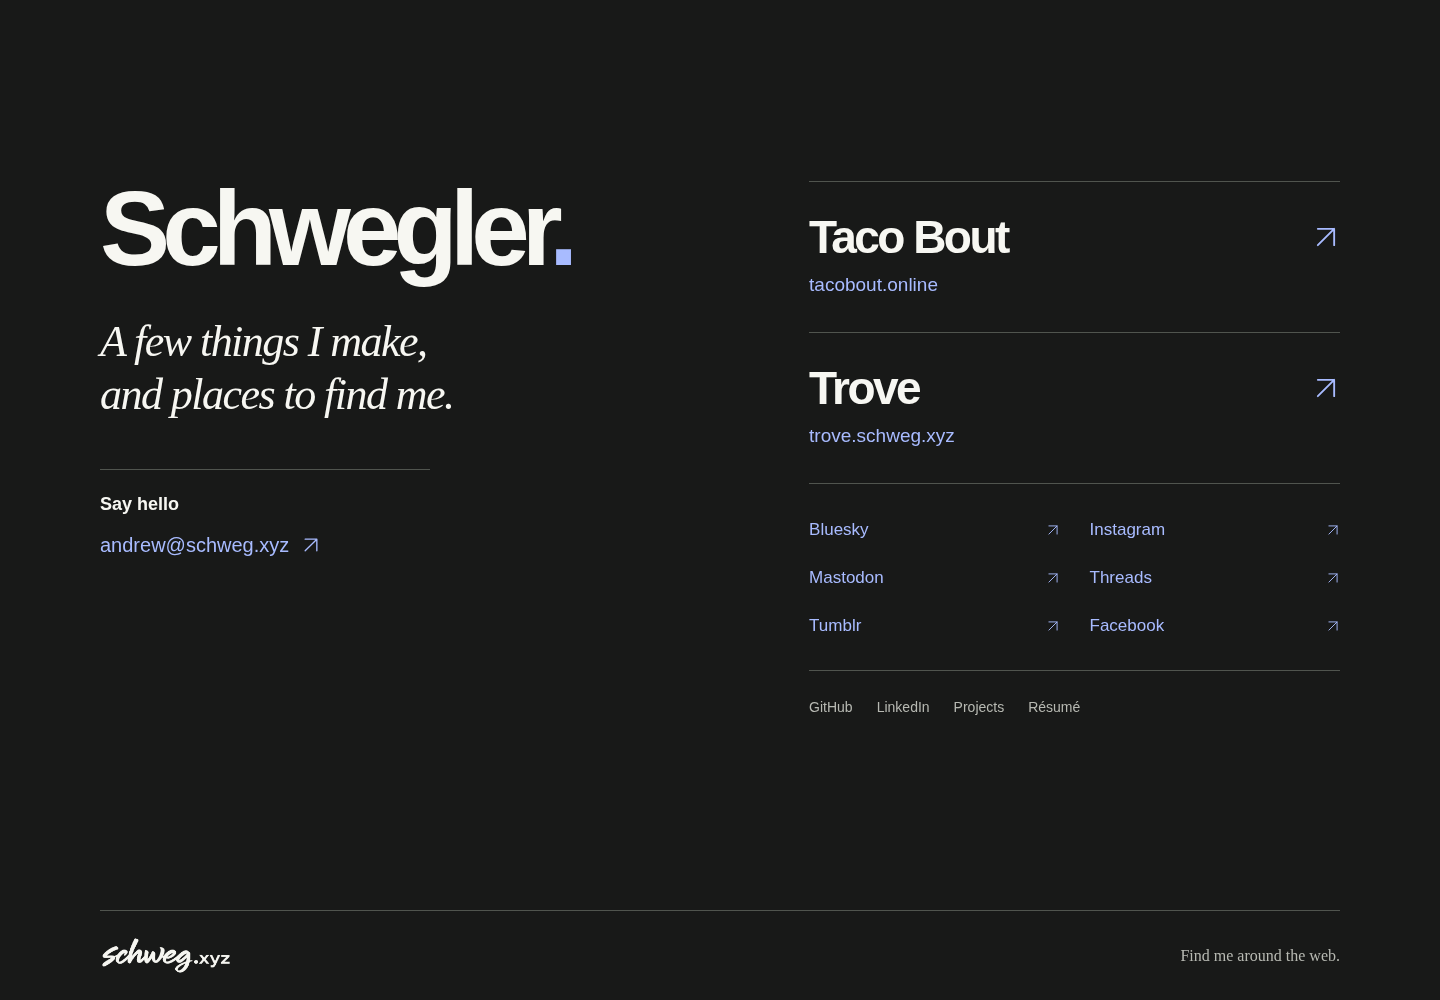
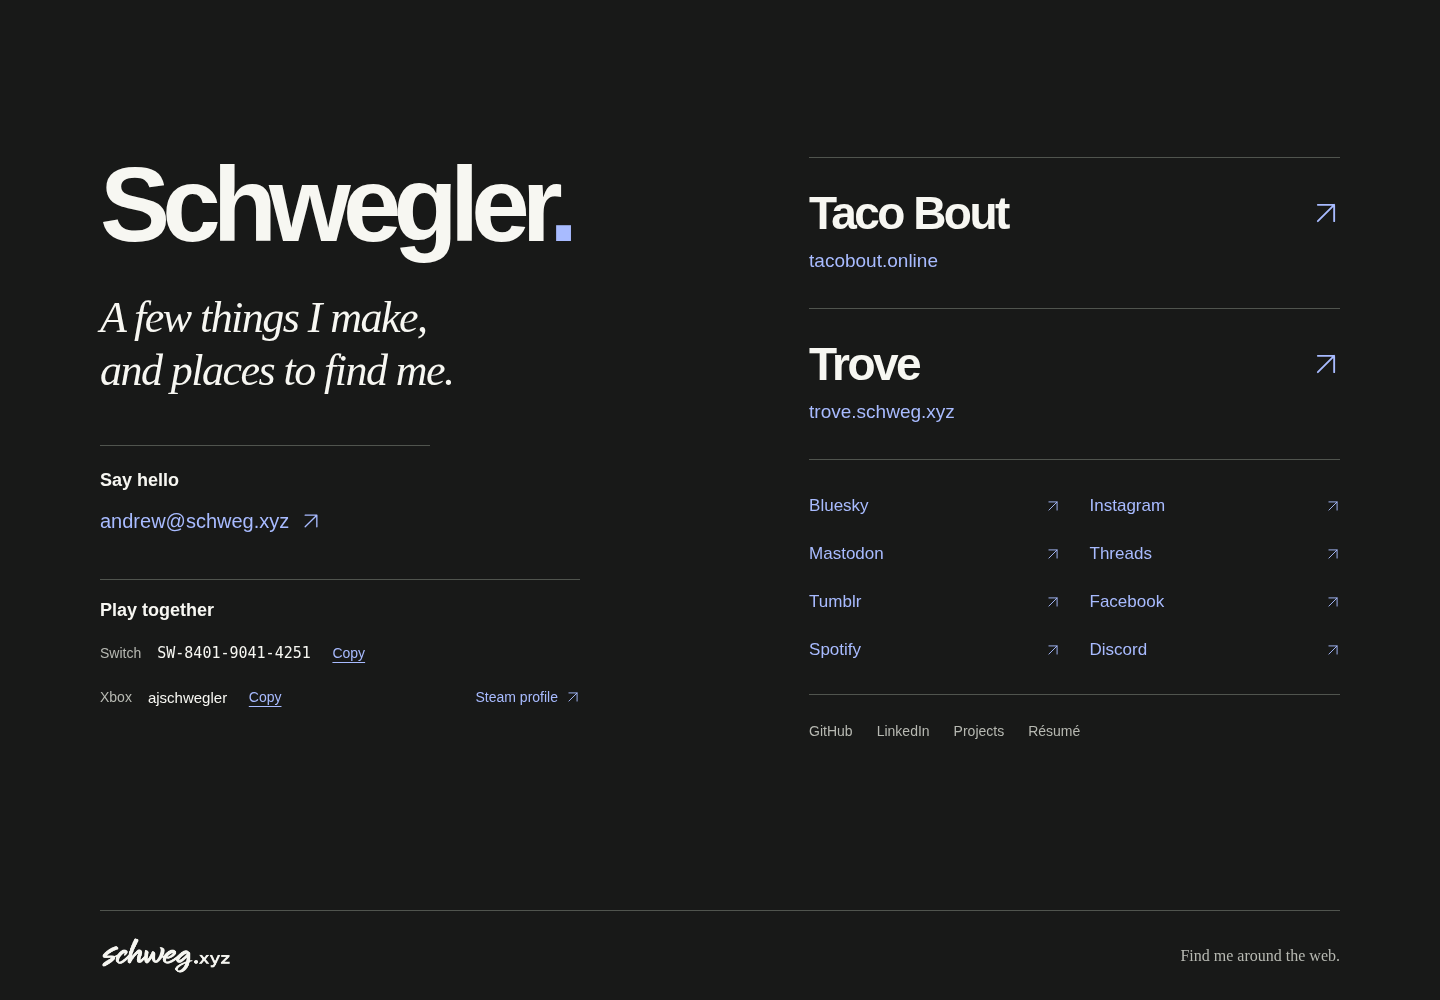
Add gaming contacts, Spotify and Discord to personal profile

diff --git a/me.html b/me.html
@@ -31,6 +31,7 @@
     <meta name="theme-color" content="#f7f7f2" />
     <link rel="icon" href="assets/favicon.svg" type="image/svg+xml" />
     <link rel="stylesheet" href="assets/me.css" />
+    <script src="assets/me.js" defer></script>
   </head>
   <body>
     <a class="skip" href="#main">Skip to content</a>
@@ -49,6 +50,44 @@
               <path d="M5 19 19 5M5 5h14v14" /></svg
           ></a>
         </div>
+        <section class="gaming" aria-labelledby="gaming-title">
+          <h2 id="gaming-title">Play together</h2>
+          <div class="gaming-row switch-row">
+            <span class="gaming-platform">Switch</span>
+            <span class="friend-code" id="switch-code">SW-8401-9041-4251</span>
+            <button
+              type="button"
+              class="copy-code"
+              data-copy-code="switch-code"
+              data-copy-label="Switch code"
+              aria-label="Copy Switch friend code"
+              hidden
+            >
+              Copy
+            </button>
+          </div>
+          <div class="gaming-row">
+            <span class="gaming-platform">Xbox</span>
+            <span class="player-tag" id="xbox-tag">ajschwegler</span>
+            <button
+              type="button"
+              class="copy-code"
+              data-copy-code="xbox-tag"
+              data-copy-label="Xbox gamertag"
+              aria-label="Copy Xbox gamertag"
+              hidden
+            >
+              Copy
+            </button>
+            <a
+              class="steam-link"
+              href="https://steamcommunity.com/profiles/76561198012788300"
+              >Steam profile<svg viewBox="0 0 24 24" aria-hidden="true">
+                <path d="M5 19 19 5M5 5h14v14" /></svg
+            ></a>
+          </div>
+          <p class="copy-status" role="status" aria-live="polite"></p>
+        </section>
       </section>
       <div class="links">
         <nav class="features" aria-label="Featured links">
@@ -84,6 +123,14 @@
               <path d="M5 19 19 5M5 5h14v14" /></svg></a
           ><a href="https://www.facebook.com/schwglr" rel="me"
             >Facebook<svg viewBox="0 0 24 24" aria-hidden="true">
+              <path d="M5 19 19 5M5 5h14v14" /></svg
+          ></a>
+          <a href="https://open.spotify.com/user/schwegler" rel="me"
+            >Spotify<svg viewBox="0 0 24 24" aria-hidden="true">
+              <path d="M5 19 19 5M5 5h14v14" /></svg
+          ></a>
+          <a href="https://discord.com/users/611902242840117249" rel="me"
+            >Discord<svg viewBox="0 0 24 24" aria-hidden="true">
               <path d="M5 19 19 5M5 5h14v14" /></svg
           ></a>
         </nav>

diff --git a/assets/me.css b/assets/me.css
@@ -330,3 +330,162 @@ footer {
     }
   }
 }
+.gaming {
+  margin-top: 36px;
+  max-width: 480px;
+  border-top: 1px solid var(--line);
+  padding-top: 20px;
+}
+.gaming h2 {
+  margin-bottom: 10px;
+}
+.gaming-row {
+  display: flex;
+  align-items: center;
+  flex-wrap: wrap;
+  gap: 4px 16px;
+  min-height: 44px;
+}
+.gaming-platform {
+  font-size: 14px;
+  color: var(--muted);
+}
+.friend-code {
+  font-family: ui-monospace, SFMono-Regular, Consolas, monospace;
+  font-size: 15px;
+  user-select: all;
+}
+.copy-code {
+  appearance: none;
+  border: 0;
+  border-bottom: 1px solid currentColor;
+  background: none;
+  color: var(--blue);
+  min-height: 44px;
+  padding: 0 4px;
+  font:
+    14px Arial,
+    Helvetica,
+    sans-serif;
+  cursor: pointer;
+  min-width: 44px;
+}
+.copy-code[hidden] {
+  display: none;
+}
+.copy-code:hover {
+  color: var(--ink);
+}
+.copy-code:focus-visible {
+  outline: 3px solid var(--blue);
+  outline-offset: 4px;
+}
+.copy-status {
+  font-size: 13px;
+  line-height: 1.4;
+  color: var(--muted);
+  margin: 0;
+}
+.copy-status:not(:empty) {
+  margin-top: 8px;
+}
+@media (max-width: 760px) {
+  .gaming {
+    margin-top: 16px;
+    padding-top: 12px;
+    max-width: none;
+  }
+  .gaming h2 {
+    font-size: 16px;
+    margin-bottom: 4px;
+  }
+  .gaming-row {
+    gap: 0 12px;
+  }
+}
+.player-tag {
+  font-size: 15px;
+  user-select: all;
+}
+.steam-link {
+  display: inline-flex;
+  align-items: center;
+  gap: 8px;
+  min-height: 44px;
+  font-size: 14px;
+  margin-left: auto;
+}
+.steam-link svg {
+  width: 14px;
+  height: 14px;
+}
+@media (max-width: 760px) {
+  main {
+    padding-block: 20px;
+    gap: 16px;
+  }
+  .dek {
+    font-size: 23px;
+    margin: 12px 0;
+  }
+  .gaming {
+    margin-top: 12px;
+  }
+  .features {
+    display: grid;
+    grid-template-columns: repeat(2, minmax(0, 1fr));
+    gap: 24px;
+  }
+  .features > a {
+    border-bottom: 1px solid var(--line);
+    padding: 14px 0 18px;
+  }
+  .feature-title {
+    font-size: 24px;
+  }
+  .feature-title svg {
+    width: 18px;
+    height: 18px;
+  }
+  .domain {
+    font-size: 14px;
+  }
+  footer {
+    min-height: 60px;
+  }
+}
+@media (max-width: 350px) {
+  .features {
+    gap: 16px;
+  }
+  .domain {
+    font-size: 13px;
+  }
+  .feature-title {
+    font-size: 23px;
+  }
+  .gaming-row {
+    gap: 0 8px;
+  }
+}
+.copy-code {
+  border: 0;
+  text-decoration: underline;
+  text-underline-offset: 4px;
+}
+@media (max-width: 760px) {
+  main {
+    padding-block: 16px;
+    gap: 12px;
+  }
+  .socials {
+    margin-top: 8px;
+  }
+  .secondary {
+    margin-top: 8px;
+  }
+  footer,
+  .signature {
+    min-height: 44px;
+  }
+}

diff --git a/assets/me.js b/assets/me.js
@@ -1,0 +1,22 @@
+// Native text remains readable and selectable without clipboard access or JS.
+if (navigator.clipboard?.writeText) {
+  const status = document.querySelector(".copy-status");
+  document.querySelectorAll("[data-copy-code]").forEach((button) => {
+    button.hidden = false;
+    button.addEventListener("click", async () => {
+      const code = document.getElementById(button.dataset.copyCode);
+      const label = button.dataset.copyLabel;
+      try {
+        await navigator.clipboard.writeText(code.textContent.trim());
+        status.textContent = `${label} copied.`;
+      } catch {
+        const range = document.createRange();
+        range.selectNodeContents(code);
+        const selection = window.getSelection();
+        selection.removeAllRanges();
+        selection.addRange(range);
+        status.textContent = `Select and copy the highlighted ${label}.`;
+      }
+    });
+  });
+}

diff --git a/tests/browser/test_me.py b/tests/browser/test_me.py
@@ -1,7 +1,7 @@
 """The standalone profile stays usable without JavaScript or site chrome."""
 import pytest
 
-@pytest.mark.parametrize('width,height', [(390,844),(768,1024),(1440,1000),(844,390)])
+@pytest.mark.parametrize('width,height', [(390,844),(360,740),(320,568),(768,1024),(1440,1000),(844,390)])
 def test_profile(clean_page, site_url, width, height):
     page=clean_page
     page.set_viewport_size({'width':width,'height':height})
@@ -32,5 +32,32 @@ def test_profile_without_javascript(browser, site_url):
     page=context.new_page()
     page.goto(site_url+'/me')
     assert page.locator('a[href="https://trove.schweg.xyz"]').is_visible()
+    assert page.locator('#switch-code').inner_text()=='SW-8401-9041-4251'
+    assert page.locator('#xbox-tag').inner_text()=='ajschwegler'
+    assert not page.get_by_role('button',name='Copy Switch friend code').is_visible()
+    assert page.locator('a[href="https://steamcommunity.com/profiles/76561198012788300"]').is_visible()
     assert page.locator('.signature img').evaluate('(e)=>e.complete && e.naturalWidth===1945')
     context.close()
+
+
+@pytest.mark.parametrize('label,value,message', [('Switch friend code','SW-8401-9041-4251','Switch code copied.'),('Xbox gamertag','ajschwegler','Xbox gamertag copied.')])
+def test_gaming_copy(clean_page, site_url, label, value, message):
+    page=clean_page
+    page.context.grant_permissions(['clipboard-read','clipboard-write'])
+    page.goto(site_url+'/me')
+    button=page.get_by_role('button',name='Copy '+label)
+    button.focus()
+    page.keyboard.press('Enter')
+    page.get_by_role('status').filter(has_text=message).wait_for()
+    assert page.evaluate('navigator.clipboard.readText()')==value
+    assert button.bounding_box()['height']>=44
+    assert button.bounding_box()['width']>=44
+
+
+def test_switch_copy_denied(clean_page, site_url):
+    page=clean_page
+    page.add_init_script("Object.defineProperty(navigator,'clipboard',{value:{writeText:()=>Promise.reject(new Error('denied'))}})")
+    page.goto(site_url+'/me')
+    page.get_by_role('button',name='Copy Switch friend code').click()
+    page.get_by_role('status').filter(has_text='Select and copy').wait_for()
+    assert page.evaluate('window.getSelection().toString()')=='SW-8401-9041-4251'

diff --git a/docs/personal-profile-qa.md b/docs/personal-profile-qa.md
@@ -1,15 +1,15 @@
 # Personal profile review
 
-The standalone `/me` digital business card uses **Schwegler** only. The résumé and other pages retain their existing content and UI. No framework, JavaScript, remote fonts, analytics, or backend is added. The small blue punctuation mark has a one-time entrance; reduced motion disables it.
+The standalone `/me` digital business card uses **Schwegler** only. The résumé and other pages retain their existing content and UI. No framework, remote fonts, analytics, or backend is added. A small local script progressively enhances the gaming text with clipboard buttons; all details remain readable and selectable without JavaScript. The small blue punctuation mark has a one-time entrance; reduced motion disables it.
 
 ## Routes and release checks
 
 - Canonical: `https://schweg.xyz/me`, served by Cloudflare Pages from `me.html`.
 - `/about`, `/about/`, and `/about.html`: explicit 301 to `/me`; no existing files collide.
 - Existing Notes redirects and security headers are preserved.
-- The route inventory and sitemap include the new page. The Bluesky validator exception permits only the verified exact destination on `me.html`; other profile destinations remain rejected.
+- The route inventory and sitemap include the new page. The Bluesky validator exception remains unchanged and permits only the verified exact destination on `me.html`.
 - Public mail destination and visible address use numeric character references. No email in metadata, ARIA, or data attributes.
-- GitHub/LinkedIn, six verified personal social accounts, the two featured destinations, résumé, projects, and the signature home link are native anchors. Some social providers block automated public fetches; identity evidence is separate from live availability.
+- GitHub/LinkedIn, six verified personal social accounts, Spotify, Discord, the Steam profile, the two featured destinations, résumé, projects, and the signature home link are native anchors. Some social providers block automated public fetches; identity evidence is separate from live availability.
 - Production routing must be checked after an authorized release. Local route tests emulate Pages behavior; they do not prove a deployment. No merge, deployment, account, DNS, or security changes are part of this change.
 
 ## Visual review
@@ -37,3 +37,16 @@ Intentional concept deviations: exact approved signature replaces generated artw
 ![Phone](screenshots/me/mobile.png)
 
 ![Dark appearance](screenshots/me/dark.png)
+
+## Gaming, music and Discord follow-up
+
+PR #150 was already merged when these additions were requested. The follow-up starts from merge commit `6bc96078f77ad25abed2d87e5fe3e67a729b477b` on a fresh branch.
+
+- Switch friend code: `SW-8401-9041-4251`; Xbox gamertag: `ajschwegler`. Both were explicitly supplied by the user. Separate accessible Copy buttons report success in a live status region. Clipboard failure selects the corresponding text and explains the manual-copy fallback. No Xbox deep link is invented.
+- Steam uses the exact supplied numeric profile URL. The public page was inaccessible to the browsing tool, so the visible label is **Steam profile**, with no guessed display name.
+- Spotify and Discord use the exact supplied public profile URLs and join the existing compact social navigation.
+- This is a small extension within the existing visual system, not a new concept or generated artwork. Desktop retains the left contact/gaming area and right feature/social area. Phone feature links sit side by side to make space for the additional native links.
+- Latest renders inspected with `view_image`: desktop 1440×1000, phone 390×844, narrow 320×568; dark and 360×740 captures also checked. Both 390×844 and 360×740 fit their viewport. Narrow 320×568 and short 844×390 scroll gracefully with no horizontal overflow. Existing signature artwork, typography character, palette, fine rules and open spacing are preserved.
+- All 13 focused browser checks pass, including keyboard copying, exact clipboard values for both codes, clipboard denial fallback, no-JavaScript details, routing and at least 44px link/button targets. Local axe WCAG A/AA scans pass at six viewport/appearance combinations. Native browser zoom at 200% and 400% preserves heading/home reachability with no horizontal overflow.
+
+Screenshots above show this latest implementation. The historical Image Gen concept does not contain the subsequently requested gaming/music/Discord content. These additions are intentional user-directed changes to the earlier concept, not a claim of pixel-identical fidelity.
